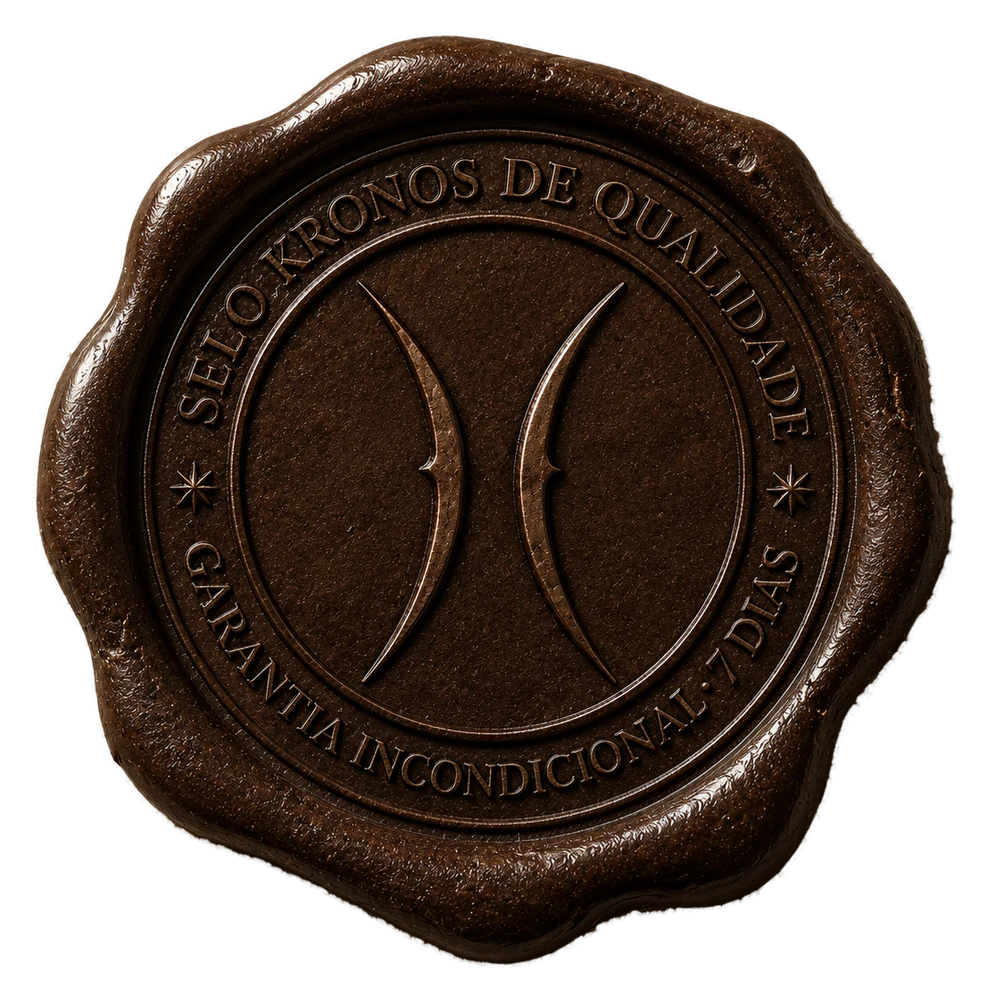
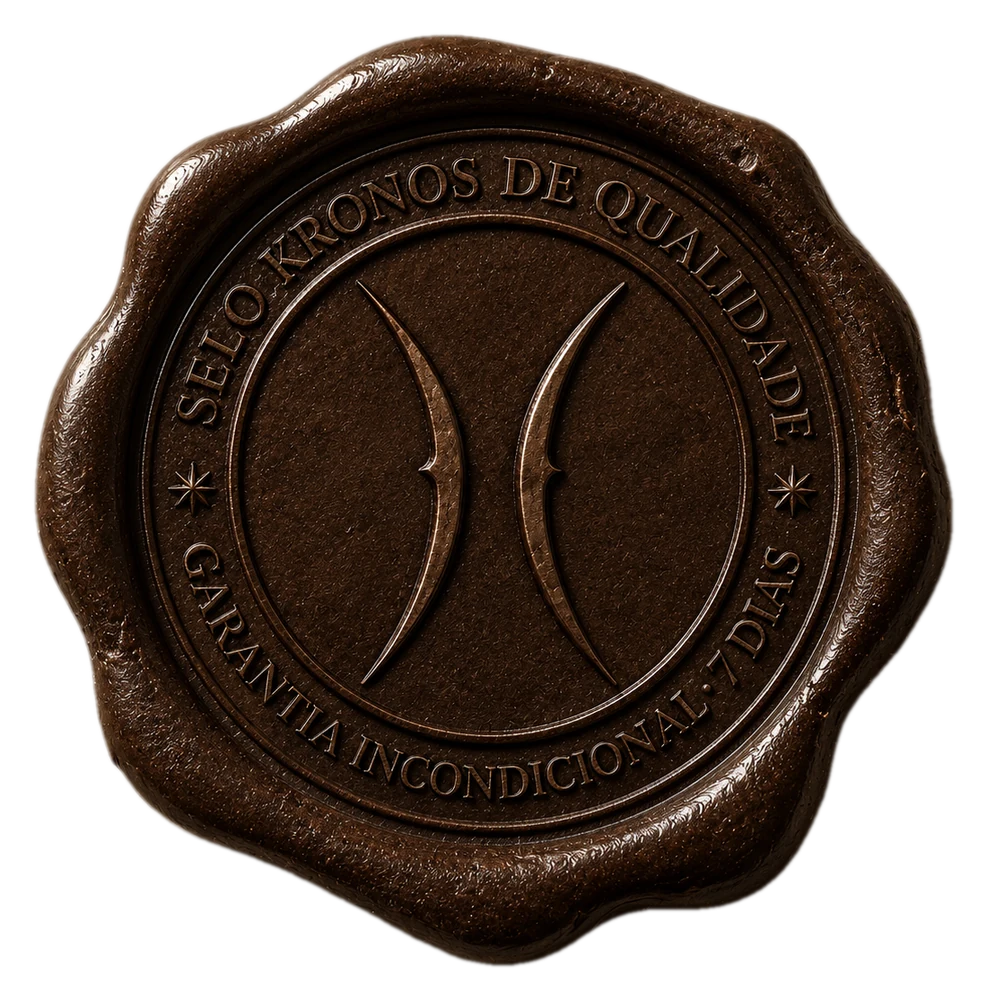
Refina recorte do selo e ajusta a secao de garantia
- Recorte mais limpo (suaviza fringe granulado na direita/base)
- Selo alinhado ao topo do texto (sobe a imagem)
- Bullets: italico sutil so nas palavras-chave (nada, sem fidelidade, nosso)

diff --git a/index.html b/index.html
@@ -582,7 +582,7 @@
     <div class="container guarantee-grid reveal">
       <div class="guarantee-seal">
         <span class="seal">
-          <img src="assets/selo-kronos.webp" width="988" height="1000"
+          <img src="assets/selo-kronos.webp" width="987" height="1000"
                alt="Selo Kronos de Qualidade — Garantia incondicional de 7 dias" />
         </span>
       </div>
@@ -604,19 +604,19 @@
             <span class="gp-ic" aria-hidden="true">
               <svg viewBox="0 0 32 32"><circle cx="16" cy="16" r="9.4"/><circle cx="16" cy="16" r="4.2"/><circle class="gp-dot" cx="16" cy="16" r="1.3"/><line x1="16" y1="2.2" x2="16" y2="5.6"/><line x1="16" y1="26.4" x2="16" y2="29.8"/><line x1="2.2" y1="16" x2="5.6" y2="16"/><line x1="26.4" y1="16" x2="29.8" y2="16"/></svg>
             </span>
-            <span class="gp-txt">Reembolso total, <strong>sem precisar justificar nada</strong>.</span>
+            <span class="gp-txt">Reembolso total, sem precisar justificar <em>nada</em>.</span>
           </li>
           <li>
             <span class="gp-ic" aria-hidden="true">
               <svg viewBox="0 0 32 32"><circle cx="16" cy="16" r="9.4"/><circle cx="16" cy="16" r="4.2"/><circle class="gp-dot" cx="16" cy="16" r="1.3"/><line x1="16" y1="2.2" x2="16" y2="5.6"/><line x1="16" y1="26.4" x2="16" y2="29.8"/><line x1="2.2" y1="16" x2="5.6" y2="16"/><line x1="26.4" y1="16" x2="29.8" y2="16"/></svg>
             </span>
-            <span class="gp-txt">Sem letra miúda, sem pegadinha, <strong>sem fidelidade</strong>.</span>
+            <span class="gp-txt">Sem letra miúda, sem pegadinha, <em>sem fidelidade</em>.</span>
           </li>
           <li>
             <span class="gp-ic" aria-hidden="true">
               <svg viewBox="0 0 32 32"><circle cx="16" cy="16" r="9.4"/><circle cx="16" cy="16" r="4.2"/><circle class="gp-dot" cx="16" cy="16" r="1.3"/><line x1="16" y1="2.2" x2="16" y2="5.6"/><line x1="16" y1="26.4" x2="16" y2="29.8"/><line x1="2.2" y1="16" x2="5.6" y2="16"/><line x1="26.4" y1="16" x2="29.8" y2="16"/></svg>
             </span>
-            <span class="gp-txt"><strong>O risco é todo nosso.</strong> O seu é zero.</span>
+            <span class="gp-txt">O risco é todo <em>nosso</em>. O seu é zero.</span>
           </li>
         </ul>
 

diff --git a/styles.css b/styles.css
@@ -1156,12 +1156,13 @@ em { font-style: italic; }
   z-index: 2;
   display: grid;
   grid-template-columns: minmax(220px, 0.82fr) 1.18fr;
-  align-items: center;
+  align-items: start;
   gap: clamp(2rem, 5vw, 4.8rem);
   max-width: 1020px;
   margin-inline: auto;
 }
-.guarantee-seal { display: flex; justify-content: center; }
+/* alinha o selo com o topo do texto (sobe a imagem) */
+.guarantee-seal { display: flex; justify-content: center; align-self: start; }
 
 /* selo de garantia (lacre de cera) */
 .seal { display: block; width: clamp(232px, 30vw, 358px); margin: 0; }
@@ -1226,7 +1227,8 @@ em { font-style: italic; }
   color: var(--sepia);
   font-size: 1.04rem;
 }
-.guarantee-points strong { font-weight: 600; color: var(--onix); }
+/* destaque sutil e elegante: itálico só nas palavras-chave */
+.guarantee-points em { font-style: italic; font-weight: 400; color: var(--onix); }
 .gp-txt { display: inline-block; }
 .gp-ic { flex: none; width: 26px; height: 26px; display: inline-flex; }
 .gp-ic svg { width: 100%; height: 100%; }